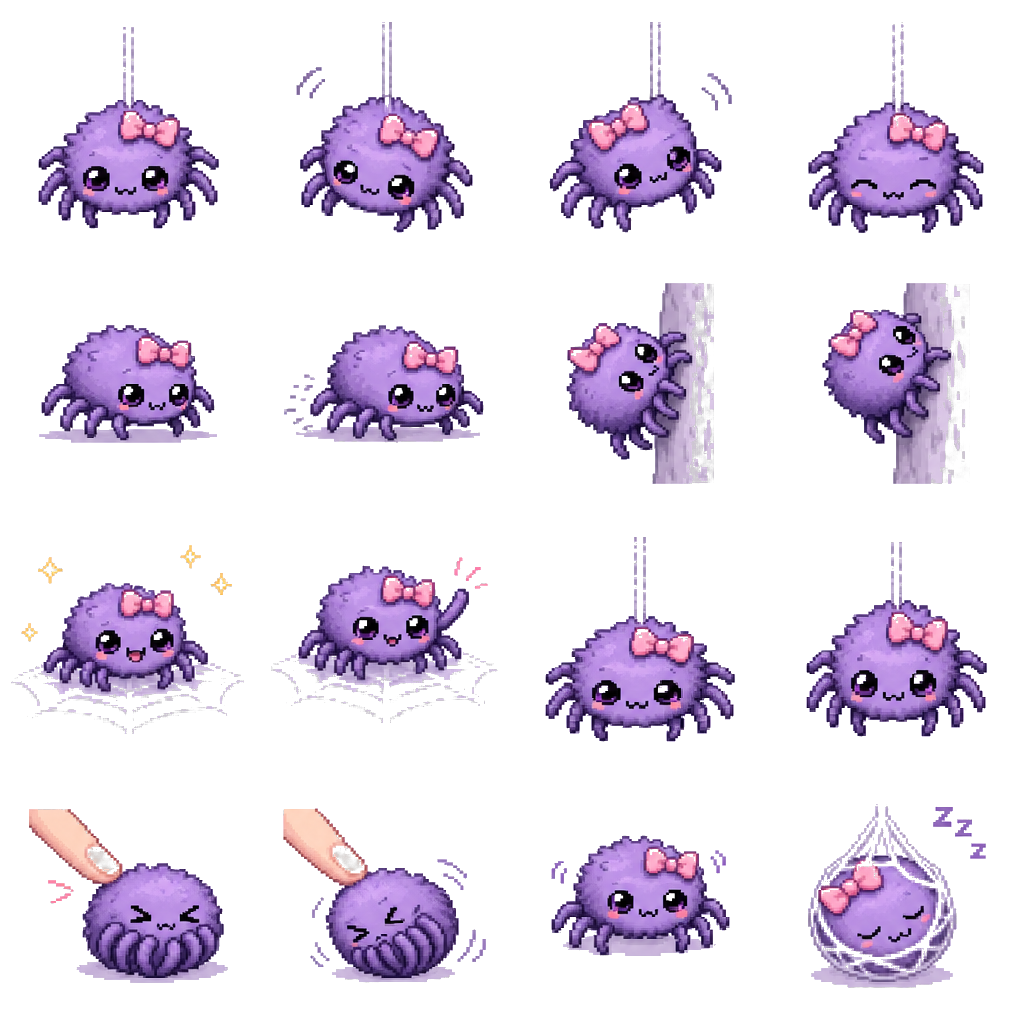
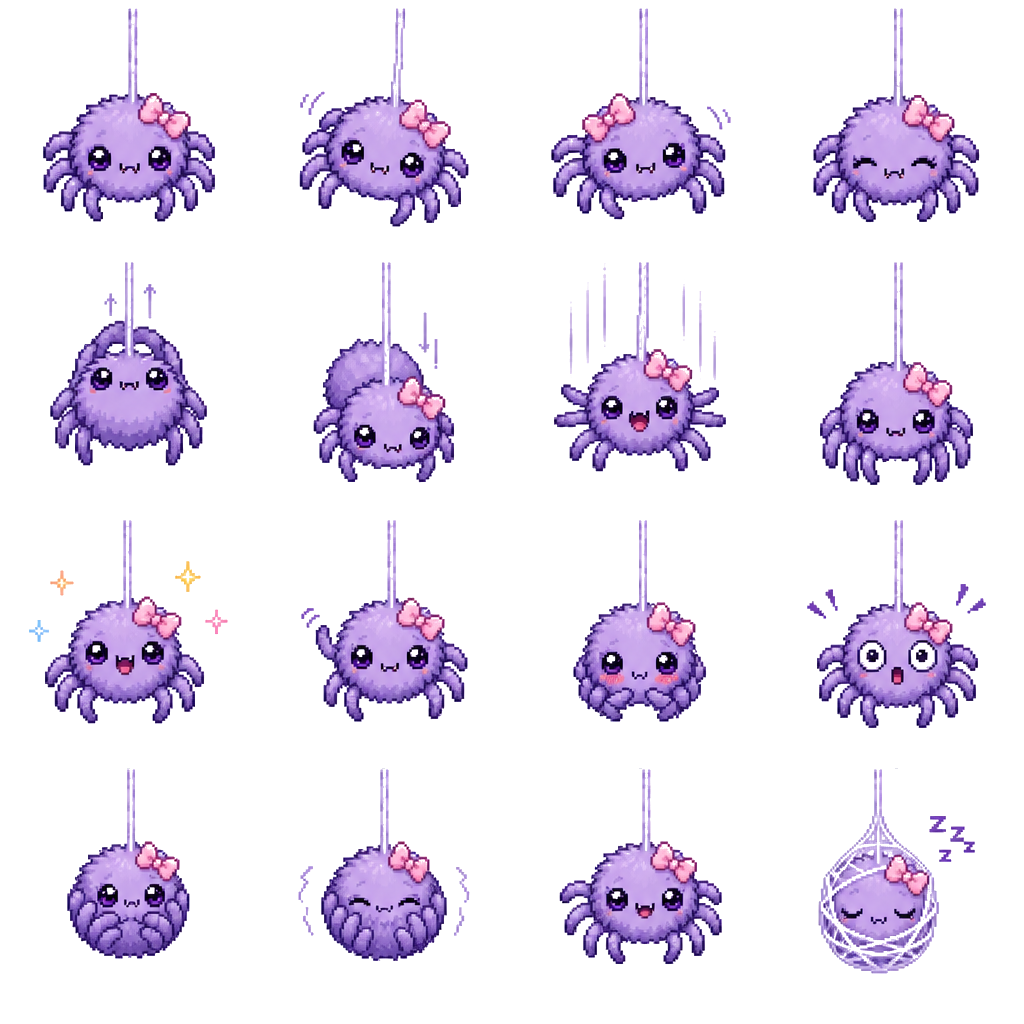
fix(tela): arte regenerado sin dedos humanos ni sombra/suelo — la araña siempre cuelga de su hilo (frames 12-15 con hilo dibujado); estado HANG más frecuente (balanceo natural)

diff --git a/app/src/main/java/com/pixelpals/app/feature/overlay/behavior/TelaBehavior.kt b/app/src/main/java/com/pixelpals/app/feature/overlay/behavior/TelaBehavior.kt
@@ -69,24 +69,25 @@ class TelaBehavior(
         val nearBottom = y >= maxY() - edge
         val roll = random.nextFloat()
 
-        // La araña recorre el PERÍMETRO: borde izq → techo → borde der → suelo → ...
+        // La araña es un animal de PERÍMETRO: cuelga de su hilo la mayor parte del
+        // tiempo, y cuando se mueve recorre borde → techo → borde → suelo.
         when {
+            // En el techo: se cuelga y se balancea, o cruza hacia el lado opuesto
             nearTop && !nearLeft && !nearRight -> {
-                // En el techo: cruza hacia el lado opuesto o baja por el borde más cercano
-                if (roll < 0.35f && (nearLeft || nearRight)) {
-                    // Ya en esquina: baja
-                    startMode(Mode.CLIMB, 1.4f + random.nextFloat() * 1.2f, x, y, x, maxY() - 20f)
+                if (roll < 0.45f) {
+                    // Colgarse y balancearse en el sitio (estado natural de la araña)
+                    startMode(Mode.HANG, 2.2f + random.nextFloat() * 2.2f, x, y, x, y)
                 } else {
                     val sideX = if (x < bridge.screenWidth / 2f) minX() else maxX()
                     startMode(Mode.CEILING, 1.8f + random.nextFloat() * 1.6f, x, y, sideX + (if (sideX == minX()) 20f else -20f), minY() + 10f)
                 }
             }
             nearLeft || nearRight -> {
-                // En un borde lateral: sube al techo o baja al suelo por el mismo borde
-                if (roll < 0.5f) {
-                    startMode(Mode.CLIMB, 1.3f + random.nextFloat() * 1.4f, x, y, x, minY() + 10f)
-                } else {
-                    startMode(Mode.CLIMB, 1.2f + random.nextFloat() * 1.3f, x, y, x, maxY() - 20f)
+                // En un borde lateral: cuelga un rato, o sube/baja por el mismo borde
+                when {
+                    roll < 0.40f -> startMode(Mode.HANG, 2.0f + random.nextFloat() * 2.0f, x, y, x, y)
+                    roll < 0.70f -> startMode(Mode.CLIMB, 1.3f + random.nextFloat() * 1.4f, x, y, x, minY() + 10f)
+                    else -> startMode(Mode.CLIMB, 1.2f + random.nextFloat() * 1.3f, x, y, x, maxY() - 20f)
                 }
             }
             nearBottom && !nearLeft && !nearRight -> {
@@ -95,9 +96,11 @@ class TelaBehavior(
                 startMode(Mode.CLIMB, 1.5f + random.nextFloat() * 1.3f, x, y, sideX + (if (sideX == minX()) 20f else -20f), maxY() - 20f)
             }
             else -> {
-                // En el aire (colgando de un hilo en el centro): sube al techo
-                // o se deja caer al suelo; NUNCA cruza el centro sin motivo.
-                if (roll < 0.55f) {
+                // En el aire (colgando de un hilo): se balancea un rato y luego
+                // sube al techo o se deja caer al suelo — nunca cruza el centro.
+                if (roll < 0.60f) {
+                    startMode(Mode.HANG, 2.0f + random.nextFloat() * 2.0f, x, y, x, y)
+                } else if (roll < 0.80f) {
                     startMode(Mode.CLIMB, 1.2f + random.nextFloat() * 1.2f, x, y, x, minY() + 10f)
                 } else {
                     startMode(Mode.CLIMB, 1.2f + random.nextFloat() * 1.2f, x, y, x, maxY() - 20f)

diff --git a/app/src/main/java/com/pixelpals/app/PetView.kt b/app/src/main/java/com/pixelpals/app/PetView.kt
@@ -107,7 +107,7 @@ class PetView(
         PetType.PIRU -> 1.208f          // idle piru_0 0.664 -> 0.802
         PetType.TARO -> 1.316f          // idle taro_0 0.609 -> 0.802
         PetType.MENTA -> 1.167f         // idle menta_0 0.688 -> 0.802
-        PetType.TELA -> 1.016f          // idle tela_0 0.789 -> 0.802
+        PetType.TELA -> 0.960f          // idle tela_0 0.836 -> 0.802
     }
 
     /**
@@ -129,7 +129,7 @@ class PetView(
         PetType.PIRU -> 0.6641f         // idle waddle (idx 0)
         PetType.TARO -> 0.6094f         // idle peek (idx 0)
         PetType.MENTA -> 0.6875f        // idle coiled (idx 0)
-        PetType.TELA -> 0.7891f         // idle colgando (idx 0)
+        PetType.TELA -> 0.8359f         // idle colgando (idx 0)
     }
 
     /**
@@ -154,7 +154,7 @@ class PetView(
         PetType.PIRU -> floatArrayOf(0.6641f, 0.6797f, 0.6719f, 0.6602f, 0.4297f, 0.4453f, 0.7266f, 0.6797f, 0.6719f, 0.6328f, 0.6289f, 0.6328f, 0.3477f, 0.457f, 0.4922f, 0.4883f)
         PetType.TARO -> floatArrayOf(0.6094f, 0.5781f, 0.6055f, 0.6055f, 0.5664f, 0.5664f, 0.5898f, 0.5664f, 0.6445f, 0.5664f, 0.5938f, 0.6641f, 0.4688f, 0.4688f, 0.4688f, 0.4688f)
         PetType.MENTA -> floatArrayOf(0.6875f, 0.6641f, 0.6719f, 0.6797f, 0.5117f, 0.6328f, 0.9023f, 0.9023f, 0.7031f, 0.6641f, 0.6484f, 0.6758f, 0.3789f, 0.4805f, 0.4883f, 0.5078f)
-        PetType.TELA -> floatArrayOf(0.7891f, 0.8242f, 0.8242f, 0.8242f, 0.4609f, 0.4609f, 0.7852f, 0.7852f, 0.7383f, 0.6484f, 0.8008f, 0.7617f, 0.6797f, 0.6836f, 0.4727f, 0.7188f)
+        PetType.TELA -> floatArrayOf(0.8359f, 0.8555f, 0.8281f, 0.8398f, 0.7969f, 0.8633f, 0.8203f, 0.8711f, 0.7969f, 0.7891f, 0.7891f, 0.8125f, 0.7461f, 0.7539f, 0.7695f, 0.8047f)
     }
 
     /** Cosmético equipado de este pet (efectos que envuelven, sin alineación). */
